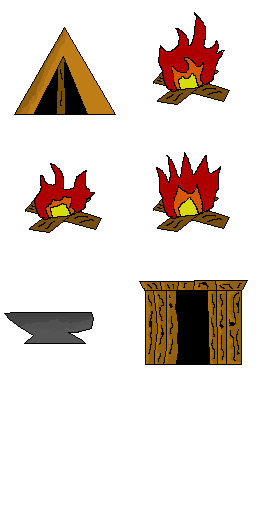
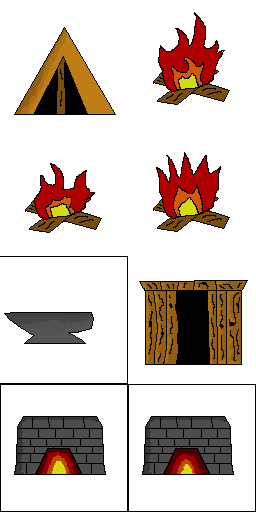
new building

Changed region(s): [[0.4688, 0.5, 0.9375, 1.0], [0.0, 0.75, 0.4375, 1.0], [0.9688, 0.75, 1.0, 1.0]]

diff --git a/Ressource.cpp b/Ressource.cpp
@@ -13,19 +13,12 @@ Ressource::Ressource() {
     identifier = 0; 
     setFrameSize(64,64);
     
-    setStatusRessource(true);
-    setAlchemyRessource(false);
-    setCookingRessource(false);
-    setCraftingRessource(false);
-    setPotion(false);
-    setUsable(false);
-    setWeapon(false);
-    setTool(false);
+    init();
 }
 
 Ressource::Ressource(Ressource* orig) {    
     setFrameSize(64,64);
-    std::cout<<"wat"<<orig->getIdentifier()<<std::endl;
+    //std::cout<<"wat"<<orig->getIdentifier()<<std::endl;
     //this->setIdentifier(orig->getIdentifier());
     getSprite()->setTexture(*orig->getSprite()->getTexture());
     setStatusRessource(orig->isStatusRessource());
@@ -34,25 +27,19 @@ Ressource::Ressource(Ressource* orig) {
     setCraftingRessource(orig->isCraftingRessource());
     setPotion(orig->isPotion());
     setUsable(orig->isUsable());
-    std::cout<<"muh"<<std::endl;
+
     this->setIdentifier(orig->getIdentifier());
 }
 
 Ressource::~Ressource() {
+    ressources.clear();
 }
 
 Ressource::Ressource(int id,sf::Texture *texture){
     setFrameSize(64,64);
     setImage(texture);
-    
-    setStatusRessource(true);
-    setAlchemyRessource(false);
-    setCookingRessource(false);
-    setCraftingRessource(false);
-    setPotion(false);
-    setUsable(false);
-    setWeapon(false);
-    setTool(false);
+
+    init();
     
     setIdentifier(id);
 //    this->setPos(x*64,y*64);
@@ -62,6 +49,13 @@ Ressource::Ressource(int id,sf::Texture *texture,bool setTex){
     setFrameSize(64,64);
     setImage(texture);
     
+    init();
+    
+    setIdentifier(id,false);
+//    this->setPos(x*64,y*64);
+}
+
+void Ressource::init(){
     setStatusRessource(true);
     setAlchemyRessource(false);
     setCookingRessource(false);
@@ -70,9 +64,7 @@ Ressource::Ressource(int id,sf::Texture *texture,bool setTex){
     setUsable(false);
     setWeapon(false);
     setTool(false);
-    
-    setIdentifier(id,false);
-//    this->setPos(x*64,y*64);
+    setSmith(false);
 }
 
 void Ressource::setIdentifier(int id){
@@ -106,32 +98,19 @@ void Ressource::setIdentifier(int id){
         this->setFrameRect(9);
         ressources[RES_WOOD]            = 2;
         ressources[RES_GOLD_ORE]        = 0;
-        ressources[RES_IRON_ORE]        = 0;
-        ressources[RES_SILVER_ORE]      = 0;
-        ressources[RES_STONE]           = 0;
-        ressources[RES_LEATHER]         = 0;
-        ressources[RES_IRON_BAR]        = 2;
-        ressources[RES_SILVER_BAR]      = 0;
-        ressources[RES_GOLD_BAR]        = 0;
-        
-        this->setCraftingRessource(true);
-    }
-    else if(id == RES_GOLD_BAR){
-        this->setFrameRect(7);
-        ressources[RES_WOOD]            = 2;
-        ressources[RES_GOLD_ORE]        = 0;
-        ressources[RES_IRON_ORE]        = 0;
+        ressources[RES_IRON_ORE]        = 2;
         ressources[RES_SILVER_ORE]      = 0;
         ressources[RES_STONE]           = 0;
         ressources[RES_LEATHER]         = 0;
         ressources[RES_IRON_BAR]        = 0;
         ressources[RES_SILVER_BAR]      = 0;
-        ressources[RES_GOLD_BAR]        = 2;
+        ressources[RES_GOLD_BAR]        = 0;
         
         this->setCraftingRessource(true);
+        this->setSmith(true);
     }
-    else if(id == RES_SILVER_BAR){
-        this->setFrameRect(8);
+    else if(id == RES_GOLD_BAR){
+        this->setFrameRect(7);
         ressources[RES_WOOD]            = 2;
         ressources[RES_GOLD_ORE]        = 0;
         ressources[RES_IRON_ORE]        = 0;
@@ -143,6 +122,22 @@ void Ressource::setIdentifier(int id){
         ressources[RES_GOLD_BAR]        = 0;
         
         this->setCraftingRessource(true);
+        this->setSmith(true);
+    }
+    else if(id == RES_SILVER_BAR){
+        this->setFrameRect(8);
+        ressources[RES_WOOD]            = 2;
+        ressources[RES_GOLD_ORE]        = 0;
+        ressources[RES_IRON_ORE]        = 0;
+        ressources[RES_SILVER_ORE]      = 2;
+        ressources[RES_STONE]           = 0;
+        ressources[RES_LEATHER]         = 0;
+        ressources[RES_IRON_BAR]        = 0;
+        ressources[RES_SILVER_BAR]      = 0;
+        ressources[RES_GOLD_BAR]        = 0;
+        
+        this->setCraftingRessource(true);
+        this->setSmith(true);
     }
     else{
        this->setFrameRect(0);
@@ -180,20 +175,41 @@ void Ressource::setIdentifier(int id, bool setTex){
         }
         else if(id == RES_IRON_BAR){
             this->setFrameRect(9);
-            ressources[RES_IRON_ORE]    = 2;
-            ressources[RES_WOOD]        = 2;
+            ressources[RES_WOOD]            = 2;
+            ressources[RES_GOLD_ORE]        = 0;
+            ressources[RES_IRON_ORE]        = 2;
+            ressources[RES_SILVER_ORE]      = 0;
+            ressources[RES_STONE]           = 0;
+            ressources[RES_LEATHER]         = 0;
+            ressources[RES_IRON_BAR]        = 0;
+            ressources[RES_SILVER_BAR]      = 0;
+            ressources[RES_GOLD_BAR]        = 0;
             this->setCraftingRessource(true);
         }
         else if(id == RES_GOLD_BAR){
             this->setFrameRect(7);
-            ressources[RES_GOLD_ORE]    = 2;
-            ressources[RES_WOOD]        = 2;
+            ressources[RES_WOOD]            = 2;
+            ressources[RES_GOLD_ORE]        = 0;
+            ressources[RES_IRON_ORE]        = 0;
+            ressources[RES_SILVER_ORE]      = 0;
+            ressources[RES_STONE]           = 0;
+            ressources[RES_LEATHER]         = 0;
+            ressources[RES_IRON_BAR]        = 0;
+            ressources[RES_SILVER_BAR]      = 2;
+            ressources[RES_GOLD_BAR]        = 0;
             this->setCraftingRessource(true);
         }
         else if(id == RES_SILVER_BAR){
             this->setFrameRect(8);
-            ressources[RES_SILVER_ORE]  = 2;
-            ressources[RES_WOOD]        = 2;
+            ressources[RES_WOOD]            = 2;
+            ressources[RES_GOLD_ORE]        = 0;
+            ressources[RES_IRON_ORE]        = 0;
+            ressources[RES_SILVER_ORE]      = 2;
+            ressources[RES_STONE]           = 0;
+            ressources[RES_LEATHER]         = 0;
+            ressources[RES_IRON_BAR]        = 0;
+            ressources[RES_SILVER_BAR]      = 0;
+            ressources[RES_GOLD_BAR]        = 0;
             this->setCraftingRessource(true);
         }
         else{
@@ -265,7 +281,7 @@ void Ressource::setTool(bool b){
 }
 
 bool Ressource::use(LivingObject* player){
-    std::cout<<"res use"<<std::endl;
+    //std::cout<<"res use"<<std::endl;
     return false;
 }
 
@@ -281,3 +297,19 @@ std::map<int,int> Ressource::getRessources(){
     return this->ressources;
 }
 
+
+bool Ressource::needFire(){
+    return this->fire;
+}
+
+bool Ressource::needSmith(){
+    return this->smith;
+}
+
+void Ressource::setSmith(bool b){
+    this->smith = b;
+}
+
+void Ressource::setFire(bool b){
+    this->fire = b;
+}

diff --git a/Building.cpp b/Building.cpp
@@ -25,6 +25,9 @@ Building::Building(char id,sf::Texture *t,int frameRect){
                 ressources[RES_GOLD_ORE]    = 0;
                 ressources[RES_SILVER_ORE]  = 0;
                 ressources[RES_LEATHER]     = 2;
+                ressources[RES_IRON_BAR]    = 0;
+                ressources[RES_SILVER_BAR]  = 0;
+                ressources[RES_GOLD_BAR]    = 0;
             break;
         case BUILDING_FIREPLACE:
                 ressources[RES_WOOD]        = 2;
@@ -33,6 +36,31 @@ Building::Building(char id,sf::Texture *t,int frameRect){
                 ressources[RES_GOLD_ORE]    = 0;
                 ressources[RES_SILVER_ORE]  = 0;
                 ressources[RES_LEATHER]     = 0;
+                ressources[RES_IRON_BAR]    = 0;
+                ressources[RES_SILVER_BAR]  = 0;
+                ressources[RES_GOLD_BAR]    = 0;
+            break;
+        case BUILDING_SMITH:
+                ressources[RES_WOOD]        = 2;
+                ressources[RES_STONE]       = 5;
+                ressources[RES_IRON_ORE]    = 0;
+                ressources[RES_GOLD_ORE]    = 0;
+                ressources[RES_SILVER_ORE]  = 0;
+                ressources[RES_LEATHER]     = 0;
+                ressources[RES_IRON_BAR]    = 0;
+                ressources[RES_SILVER_BAR]  = 0;
+                ressources[RES_GOLD_BAR]    = 0;
+            break;
+       case BUILDING_ANVIL:
+                ressources[RES_WOOD]        = 0;
+                ressources[RES_STONE]       = 0;
+                ressources[RES_IRON_ORE]    = 0;
+                ressources[RES_GOLD_ORE]    = 0;
+                ressources[RES_SILVER_ORE]  = 0;
+                ressources[RES_LEATHER]     = 0;
+                ressources[RES_IRON_BAR]    = 5;
+                ressources[RES_SILVER_BAR]  = 0;
+                ressources[RES_GOLD_BAR]    = 0;
             break;
         default:
                 ressources[RES_WOOD]        = 0;
@@ -41,7 +69,7 @@ Building::Building(char id,sf::Texture *t,int frameRect){
                 ressources[RES_GOLD_ORE]    = 0;
                 ressources[RES_SILVER_ORE]  = 0;
                 ressources[RES_LEATHER]     = 0;
-            break;
+        break;
     }
     this->setImage(t);
     this->setFrameRect(frameRect);

diff --git a/Game.cpp b/Game.cpp
@@ -27,10 +27,10 @@ Game::Game() {
     Ressource* res2 = new Ressource(RES_WOOD,images["ressources"]);
     getTileMap(0,0)->getTile(1,1)->setRessource(res2);
     
-    res2 = new Ressource(RES_STONE,images["ressources"]);
+    res2 = new Ressource(RES_IRON_ORE,images["ressources"]);
     getTileMap(0,0)->getTile(2,2)->setRessource(res2);
     
-    res2 = new Ressource(RES_STONE,images["ressources"]);
+    res2 = new Ressource(RES_IRON_ORE,images["ressources"]);
     getTileMap(0,0)->getTile(3,2)->setRessource(res2);
     
     AlchemyRessource* res3 = new AlchemyRessource(RES_SNAKE_HEAD,images["alchemyRessources"]);
@@ -770,7 +770,10 @@ void Game::initCraftingMenus(){
     button = new BuildingButton(BUTTON_BUILDING_RECT_FIREPLACE,images["buttonBuilding"],BUILDING_RECT_FIREPLACE,images["buildings"],"fireplace",BUILDING_FIREPLACE);
     buildMenu->addButton(button);
     
-    button = new BuildingButton(BUTTON_BUILDING_RECT_ANVIL,images["buttonBuilding"],BUILDING_RECT_ANVIL,images["buildings"],"fireplace",BUILDING_FIREPLACE);
+    button = new BuildingButton(BUTTON_BUILDING_RECT_ANVIL,images["buttonBuilding"],BUILDING_RECT_ANVIL,images["buildings"],"smith",BUILDING_ANVIL);
+    buildMenu->addButton(button);
+    
+    button = new BuildingButton(BUTTON_BUILDING_RECT_SMITH,images["buttonBuilding"],BUILDING_RECT_SMITH,images["buildings"],"fireplace",BUILDING_SMITH);
     buildMenu->addButton(button);
     
     alchemyMenu = new AlchemyMenu(FRAME_WIDTH * 5,0,128,512);

diff --git a/consts.h b/consts.h
@@ -57,20 +57,26 @@ enum StatusButtons{
 
 const int RECT_SLOT_EMPTY                 = 0;
 //id's for the buildings
-const char BUILDING_TENT        = '^';
-const char BUILDING_FIREPLACE	= 'f';
-
+enum BUILDINGS{
+        BUILDING_TENT           = '^',
+        BUILDING_FIREPLACE	= 'f',
+        BUILDING_ANVIL          = 'z',
+        BUILDING_SMITH          = 's'
+};
 
 const int BUILDING_RECT_TENT            = 0;
 const int BUILDING_RECT_FIREPLACE       = 1;
 const int BUILDING_RECT_FIREPLACE_END   = 3;
 const int BUILDING_RECT_ANVIL           = 4;
 const int BUILDING_RECT_HUT             = 5;
+const int BUILDING_RECT_SMITH           = 6;
+const int BUILDING_RECT_SMITH_END       = 8;
 // Button rects
 const int BUTTON_BUILDING_RECT_TENT        = 0;
 const int BUTTON_BUILDING_RECT_FIREPLACE   = 2;
 const int BUTTON_BUILDING_RECT_ANVIL       = 4;
-const int BUTTON_BUILDING_RECT_HUT         = 5;
+const int BUTTON_BUILDING_RECT_HUT         = 8;
+const int BUTTON_BUILDING_RECT_SMITH         = 6;
 // Alchemy button rect
 const int BUTTON_ALCHEMY_RECT_HEAL_POTION        = 0;
 const int BUTTON_ALCHEMY_RECT_POISON_POTION      = 2;

diff --git a/Ressource.h b/Ressource.h
@@ -19,6 +19,7 @@ public:
     Ressource(Ressource* orig);
     virtual ~Ressource();
     
+    void init();
     void setIdentifier(int id);
     void setIdentifier(int id, bool setTex);
 
@@ -32,6 +33,8 @@ public:
     bool isUsable();
     bool isWeapon();
     bool isTool();
+    bool needSmith();
+    bool needFire();
     
     void setStatusRessource(bool b);
     void setAlchemyRessource(bool b);
@@ -41,6 +44,9 @@ public:
     void setUsable(bool b);
     void setWeapon(bool b);
     void setTool(bool b);
+    
+    void setFire(bool b);
+    void setSmith(bool);
     
     bool use(LivingObject* player);
     
@@ -55,6 +61,9 @@ private:
     bool potion;
     bool weapon;
     bool tool;
+    
+    bool smith;
+    bool fire;
     
     bool usable;
 protected:

diff --git a/LivingObject.cpp b/LivingObject.cpp
@@ -33,7 +33,7 @@ void LivingObject::move(int direction,World *world){
     sf::Sprite *sprite = this->getSprite();
     bool changedMap = false;
    // std::cout<<"move"<<std::endl;
-    if(moveClock.getElapsedTime().asSeconds() > 0.15f && !haveToAttack()){
+    if(moveClock.getElapsedTime().asSeconds() > 0.1f && !haveToAttack()){
         if(direction == MOVE_UP && (this->getYPos() - 1 >= 0 || this->getTileMap()->getYPos() - 1 >= 0)){
             
             if(this->getYPos() - 1 < 0 || getTileMap()->getTile(getXPos(),getYPos()-1)->isWalkAble() ){

diff --git a/Tile.cpp b/Tile.cpp
@@ -160,6 +160,13 @@ void Tile::setBuilding(Building* building){
             setWalkAble(true);
             building->startAnimation(BUILDING_RECT_FIREPLACE,BUILDING_RECT_FIREPLACE_END);
             break;
+        case BUILDING_SMITH:
+            setWalkAble(false);
+            building->startAnimation(BUILDING_RECT_SMITH,BUILDING_RECT_SMITH_END);
+            break;
+        case BUILDING_ANVIL:
+            setWalkAble(false);
+            break;
     }
 }
 

diff --git a/Potion.cpp b/Potion.cpp
@@ -30,8 +30,8 @@ Potion::Potion(int id){
     
     switch(id){
         case POTION_HEAL:
-            ressources[RES_SNAKE_HEAD]        = 1;
-            ressources[RES_EVER_GREEN]        = 0;
+            ressources[RES_SNAKE_HEAD]        = 0;
+            ressources[RES_EVER_GREEN]        = 3;
             ressources[RES_WASP_DEATH]        = 0;
             ressources[RES_BLADE_LEAF]        = 0;
             this->heal = 2;
